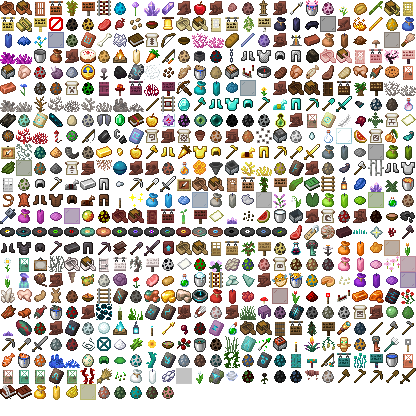
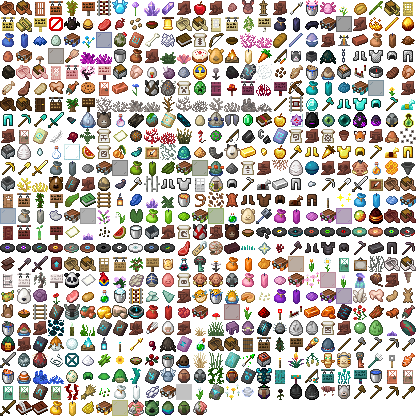
feat(bingo): updated to 1.21.7

diff --git a/BingoReloaded/src/main/java/io/github/steaf23/bingoreloaded/tasks/BingoStatistic.java b/BingoReloaded/src/main/java/io/github/steaf23/bingoreloaded/tasks/BingoStatistic.java
@@ -54,7 +54,7 @@ public record BingoStatistic(@NotNull Statistic stat, @Nullable EntityType entit
 
         Material material = null;
         if (materialStr != null && !materialStr.isEmpty())
-            material = org.bukkit.Material.valueOf(materialStr);
+            material = Material.valueOf(materialStr);
 
         return new BingoStatistic(stat, entity, material);
     }
@@ -202,21 +202,23 @@ public record BingoStatistic(@NotNull Statistic stat, @Nullable EntityType entit
                     DROPPER_INSPECTED,
                     DISPENSER_INSPECTED -> StatisticCategory.CONTAINER_INTERACT;
 
-            case STRIDER_ONE_CM,
-                    MINECART_ONE_CM,
-                    CLIMB_ONE_CM,
-                    FLY_ONE_CM,
-                    WALK_UNDER_WATER_ONE_CM,
-                    BOAT_ONE_CM,
-                    PIG_ONE_CM,
-                    HORSE_ONE_CM,
-                    CROUCH_ONE_CM,
-                    AVIATE_ONE_CM,
-                    WALK_ONE_CM,
-                    WALK_ON_WATER_ONE_CM,
-                    SWIM_ONE_CM,
-                    FALL_ONE_CM,
-                    SPRINT_ONE_CM -> StatisticCategory.TRAVEL;
+			case STRIDER_ONE_CM,
+				 MINECART_ONE_CM,
+				 CLIMB_ONE_CM,
+				 FLY_ONE_CM,
+				 WALK_UNDER_WATER_ONE_CM,
+				 BOAT_ONE_CM,
+				 PIG_ONE_CM,
+				 HORSE_ONE_CM,
+				 CROUCH_ONE_CM,
+				 AVIATE_ONE_CM,
+				 WALK_ONE_CM,
+				 WALK_ON_WATER_ONE_CM,
+				 SWIM_ONE_CM,
+				 FALL_ONE_CM,
+				 SPRINT_ONE_CM,
+                 HAPPY_GHAST_ONE_CM -> StatisticCategory.TRAVEL;
+            default -> StatisticCategory.OTHER;
         };
     }
 
@@ -305,6 +307,7 @@ public record BingoStatistic(@NotNull Statistic stat, @Nullable EntityType entit
             case TARGET_HIT -> Material.TARGET;
             case INTERACT_WITH_SMITHING_TABLE -> Material.SMITHING_TABLE;
             case STRIDER_ONE_CM -> Material.WARPED_FUNGUS_ON_A_STICK;
+            case HAPPY_GHAST_ONE_CM -> Material.HAPPY_GHAST_SPAWN_EGG;
             case DROP,
                     PICKUP,
                     MINE_BLOCK,
@@ -313,6 +316,7 @@ public record BingoStatistic(@NotNull Statistic stat, @Nullable EntityType entit
                     CRAFT_ITEM,
                     KILL_ENTITY,
                     ENTITY_KILLED_BY -> rootStatMaterial(statistic);
+            default -> Material.BEDROCK;
         };
     }
 

diff --git a/BingoReloaded/src/main/java/io/github/steaf23/bingoreloaded/world/CustomWorldCreator_V1_21_4.java b/BingoReloaded/src/main/java/io/github/steaf23/bingoreloaded/world/CustomWorldCreator_V1_21_4.java
@@ -196,10 +196,6 @@ public class CustomWorldCreator_V1_21_4
         primaryLevelData.checkName(worldName);
         primaryLevelData.setModdedInfo(console.getServerModName(), console.getModdedStatus().shouldReportAsModified());
 
-        if (console.options.has("forceUpgrade")) {
-            net.minecraft.server.Main.forceUpgrade(levelStorageAccess, DataFixers.getDataFixer(), console.options.has("eraseCache"), () -> true, registryAccess, console.options.has("recreateRegionFiles"));
-        }
-
         long i = BiomeManager.obfuscateSeed(primaryLevelData.worldGenOptions().seed());
         List<CustomSpawner> additionalSpawners = ImmutableList.of(
                 new PhantomSpawner(), new PatrolSpawner(), new CatSpawner(), new VillageSiege(), new WanderingTraderSpawner(primaryLevelData)

diff --git a/BingoReloaded/src/main/java/io/github/steaf23/bingoreloaded/gui/map/BingoCardMapRenderer.java b/BingoReloaded/src/main/java/io/github/steaf23/bingoreloaded/gui/map/BingoCardMapRenderer.java
@@ -119,7 +119,7 @@ public class BingoCardMapRenderer extends MapRenderer
     private static void addImagesFromAtlas(InputStream atlas, DataStorage atlasInfo, boolean renderAsItems) throws IOException {
         List<String> itemNames = atlasInfo.getList("names", TagDataType.STRING);
         int rowCount = atlasInfo.getInt("rows", 1);
-        List<Integer> sizeVec = atlasInfo.getList("item_size", TagDataType.INT);
+        List<Integer> sizeVec = atlasInfo.getList("texture_size", TagDataType.INT);
         int sizeX = sizeVec.get(0);
         int sizeY = sizeVec.get(1);
 

diff --git a/PlayerDisplay/src/main/java/io/github/steaf23/playerdisplay/util/StatisticsKeyConverter.java b/PlayerDisplay/src/main/java/io/github/steaf23/playerdisplay/util/StatisticsKeyConverter.java
@@ -89,7 +89,8 @@ public class StatisticsKeyConverter
             Map.entry(Statistic.WALK_ON_WATER_ONE_CM, "walk_on_water_one_cm"),
             Map.entry(Statistic.SWIM_ONE_CM, "swim_one_cm"),
             Map.entry(Statistic.FALL_ONE_CM, "fall_one_cm"),
-            Map.entry(Statistic.SPRINT_ONE_CM, "sprint_one_cm")
+            Map.entry(Statistic.SPRINT_ONE_CM, "sprint_one_cm"),
+            Map.entry(Statistic.HAPPY_GHAST_ONE_CM, "happy_ghast_one_cm")
     );
 
     /**
